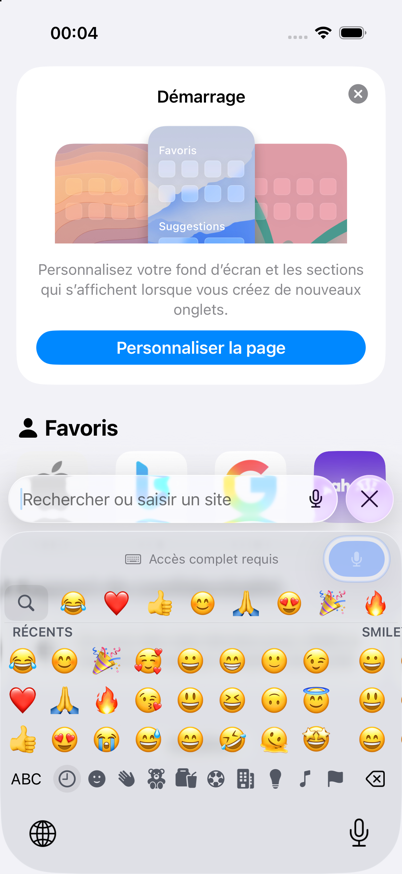
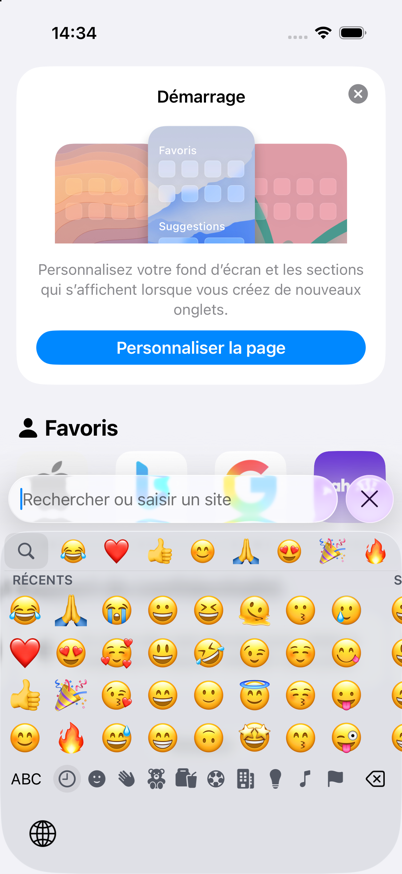
feat(#1027): the emoji panel takes the whole keyboard, four rows
Pierre on his iPhone: hide the bar (mic, ☰) in emoji mode so the panel
shows four rows, as Hex's does. Hex's openEmojiPanel hides its strip and
lays the panel over the keyboard (FullKeyboardView+Emoji.swift, MIT).

KeyboardRootView line 223 only, approved for #1030 (Iris told): in
.emoji the toolbar folds to 0 pt, opacity 0, no hit testing, hidden from
VoiceOver, and stays in the hierarchy (#79). The keyboard's height
(#166) does not move: inputView is 326 pt (iPhone 17) and 351 pt (17 Pro
Max) in letters and emoji mode alike. ABC brings the bar back.

The panel also refills Recents after its first layout: the host fills it
before the grid's rows are known, and Recents came out three rows' worth
in a four-row grid.

diff --git a/DictusCore/Sources/DictusCore/Emoji/EmojiPanelView.swift b/DictusCore/Sources/DictusCore/Emoji/EmojiPanelView.swift
@@ -75,6 +75,8 @@ public final class EmojiPanelView: UIView, UICollectionViewDataSource, UICollect
     /// An emoji without skin tones held down: typed when the finger lifts over it.
     var heldEntry: (entry: Int, frame: CGRect)?
     private var layoutKey: GridGeometry?
+    /// How many emoji the last `fill` gave Recents; the first layout corrects it (see there).
+    private var filledCapacity: Int?
     private var sectionStarts: [CGFloat] = []
     private var deleteTimer: Timer?
     private var deleteStartedAt: TimeInterval = 0
@@ -206,6 +208,7 @@ public final class EmojiPanelView: UIView, UICollectionViewDataSource, UICollect
         var scores: [Int: Float] = [:]
         var frequent: [Int] = []
         let capacity = frequentCapacity
+        filledCapacity = capacity
         for (emoji, score) in usage.ranked(limit: capacity) {
             guard let entry = library.entryByEmoji[emoji], scores[entry] == nil else { continue }
             scores[entry] = score
@@ -318,6 +321,12 @@ public final class EmojiPanelView: UIView, UICollectionViewDataSource, UICollect
         callout.frame = bounds
         tonePicker.frame = bounds
         layoutSearch()
+        // The host fills the panel before its first layout, when the grid's rows are not
+        // known yet: Recents came out three rows' worth, and in a four-row grid it left a
+        // gap. Refilled here once the height is known, before anything is on screen.
+        if let filledCapacity, filledCapacity != frequentCapacity, query == nil {
+            fill()
+        }
         applyGridLayout(height: gridFrame.height)
     }
 

diff --git a/DictusCore/Tests/DictusCoreTests/Emoji/EmojiPanelTests.swift b/DictusCore/Tests/DictusCoreTests/Emoji/EmojiPanelTests.swift
@@ -310,6 +310,24 @@ final class EmojiPanelTests: XCTestCase {
         XCTAssertEqual(panel.query, "pi")
     }
 
+    /// With the toolbar folded away in emoji mode, the panel has the whole keyboard area
+    /// (about 278 pt on an iPhone 17): four rows, as Hex's, and Recents fills all four even
+    /// though the host fills the panel before its first layout.
+    func testTheWholeKeyboardAreaGivesFourFullRows() throws {
+        let panel = try makePanel()
+        panel.fill()
+        panel.frame = CGRect(x: 0, y: 0, width: 402, height: 278)
+        panel.layoutIfNeeded()
+        XCTAssertEqual(panel.gridRows, 4)
+        XCTAssertEqual(panel.sections[0].entries.count, 32, "Recents: four rows of eight")
+        let narrow = try makePanel()
+        narrow.fill()
+        narrow.frame = CGRect(x: 0, y: 0, width: 402, height: 226)
+        narrow.layoutIfNeeded()
+        XCTAssertEqual(narrow.gridRows, 3, "under a 52 pt bar there is room for three")
+        XCTAssertEqual(narrow.sections[0].entries.count, 24)
+    }
+
     func testTheGridFitsTheKeyboardArea() throws {
         let panel = try makePanel()
         panel.fill()

diff --git a/DictusKeyboard/KeyboardRootView.swift b/DictusKeyboard/KeyboardRootView.swift
@@ -220,7 +220,15 @@ struct KeyboardRootView: View {
             onMenuTap: { voiceNotes.openFromTap() },
             onMenuLongPress: { voiceNotes.menuLongPressRecognised() }
         )
-        .frame(height: toolbarHeight)
+        // Emoji mode (#1027): the panel takes the whole keyboard, as Hex's does (its
+        // `openEmojiPanel` hides the strip, FullKeyboardView+Emoji.swift, github.com/anomalyco/hex,
+        // MIT). The bar stays in the hierarchy (#79: its identity must survive mode changes)
+        // and folds to 0 pt; the keyboard's height (#166) does not move.
+        .frame(height: presentedMode == .emoji ? 0 : toolbarHeight)
+        .clipped()
+        .opacity(presentedMode == .emoji ? 0 : 1)
+        .allowsHitTesting(presentedMode != .emoji)
+        .accessibilityHidden(presentedMode == .emoji)
     }
 
     /// What fills the keyboard area under the bar. `.keys` puts nothing here — the

diff --git a/.claude/skills/verify-dictus-ios/features/keyboard.emoji.md b/.claude/skills/verify-dictus-ios/features/keyboard.emoji.md
@@ -7,7 +7,7 @@
 
 ## Sub-features
 
-- `emoji.picker`: every category in one grid that scrolls sideways (Récents, then Smileys, Personnes, … Drapeaux); the bar under it jumps to a category on a tap and scrubs through them on a slide. Holding an emoji shows it larger.
+- `emoji.picker`: the panel takes the whole keyboard: the toolbar (mic, ☰) folds away while it is open and comes back with ABC, as Hex's strip does; the keyboard's height does not move (#166). Every category in one grid of four rows that scrolls sideways (Récents, then Smileys, Personnes, … Drapeaux); the bar under it jumps to a category on a tap and scrubs through them on a slide. Holding an emoji shows it larger.
 - `emoji.recents`: « Récents », the grid's first section: the emoji you use most, fading over ten days, filled up with common ones. Read when the panel opens, so a pick does not move them under the finger. Imports the old picker's list once (`recentEmojis` in the App Group).
 - `emoji.search`: the magnifier at the top left (the whole band left of the suggestions answers) opens « Rechercher des Emoji » with its own letter keys; results come from Unicode's CLDR names and keywords in the keyboard's language plus English. « coeur » and « cœur » both find ❤.
 - `emoji.back-to-letters`: ABC returns to the letters. The whole band under the grid left of the categories answers, not only the word.
@@ -32,6 +32,6 @@
 ## Gotchas
 
 - Emoji cells are inside the keyboard: coordinates only. Recents persist in the App Group across runs on the same device, never across devices (each run's device is new).
-- On an iPhone 17 (402 pt), from the top-left of `inputView` the panel starts under the toolbar: the magnifier is at about (+26, +80) pt, ABC (+26, +256), the categories from (+66, +256) every 30 pt (clock, then the nine categories), delete (+375, +256). Measured 2026-11-22 (#1027); re-read a screenshot if the toolbar changes.
+- From the top-left of `inputView`, the panel starts at its top (no toolbar in emoji mode): the magnifier at about (+26, +20) pt; ABC at (+26, height − 95), the categories from x +66 every 30 pt on an iPhone 17 (clock, then the nine), delete at (width − 27, height − 95). The emoji key is at (width × 75/402, height − 102). `inputView` is 326 pt tall on an iPhone 17 and 351 pt on a 17 Pro Max, the same in letters and emoji mode. Measured 2026-11-23 (#1027).
 - `axe` taps reach the keyboard, its drags do not (swipe, finer samples, a held swipe and contact-token moves all tried, 2026-11-22): the grid cannot be scrolled from outside and the bar cannot be scrubbed. Debug builds scroll every open panel through the whole grid on `xcrun simctl spawn <udid> notifyutil -p dictus.debug.emojiScrollAll` (`EmojiPanelDebug.swift`), and log `EMOJI_DEBUG panel created/freed` (a leaked panel would show as more than one live panel). A slide onto a skin tone needs a drag too: lift in place and tap the tone instead.
-- Memory is a device figure (Physical test shortlist). On the simulator (iPhone 17, iOS 26.5, #1027) the extension went 31 MB at rest, 38 MB open, 42 MB after scrolling every emoji, 34 MB once closed; the old picker reached 110 MB and kept 104 MB after closing.
+- Memory is a device figure (Physical test shortlist). On the simulator (iPhone 17, iOS 26.5, #1027) the extension went 31 MB at rest, 38 MB open, 42 MB after scrolling every emoji, 34 MB once closed (three-row grid; the four-row grid opens at 39–40 MB); the old picker reached 110 MB and kept 104 MB after closing.

diff --git a/.claude/skills/verify-dictus-ios/features/screens.md b/.claude/skills/verify-dictus-ios/features/screens.md
@@ -63,7 +63,7 @@ Captures are in [`docs/agents/screens/`](../../../../docs/agents/screens/), one 
 | `kbd.numbers` | Keyboard 123 page: digits, punctuation, `#+=`, `ABC` | kbd abc on the letters page (the same bottom-left key reads 123) | keyboard.languages | [oui](../../../../docs/agents/screens/kbd.numbers.png) |
 | `kbd.symbols` | Keyboard `#+=` page: brackets, maths, currencies, `123`, `ABC` | on `kbd.numbers`, tap `#+=` at (+30, +187) pt from `inputView` | keyboard.languages | [oui](../../../../docs/agents/screens/kbd.symbols.png) |
 | `kbd.panel` | Keyboard panel: languages and layouts | kbd menu-hold | keyboard.languages | [oui](../../../../docs/agents/screens/kbd.panel.png) |
-| `kbd.emoji` | Emoji panel (Hex's, #1027): suggestions and search at the top, one grid of every category, ABC · categories · delete | kbd emoji | keyboard.emoji | [oui](../../../../docs/agents/screens/kbd.emoji.png) |
+| `kbd.emoji` | Emoji panel (Hex's, #1027), toolbar folded away: suggestions and search at the top, one four-row grid of every category, ABC · categories · delete | kbd emoji | keyboard.emoji | [oui](../../../../docs/agents/screens/kbd.emoji.png) |
 | `kbd.voice-note-reader` | Voice-note reader (empty: « Aucune note vocale récente ») | kbd menu | voice-notes | [oui](../../../../docs/agents/screens/kbd.voice-note-reader.png) |
 | `kbd.smart-mode-fan` | Smart Mode fan (greyed: no Apple Intelligence) | Pro on, kbd mic-fan, screenshot during the drag | smart-modes | [oui](../../../../docs/agents/screens/kbd.smart-mode-fan.png) |
 | `kbd.suggestions` | Suggestion bar above the keys (undo chip after a correction) | Rappels, `type bonjoru`, `space` (see typing.autocorrect) | typing.autocorrect | [oui](../../../../docs/agents/screens/kbd.suggestions.png) |
